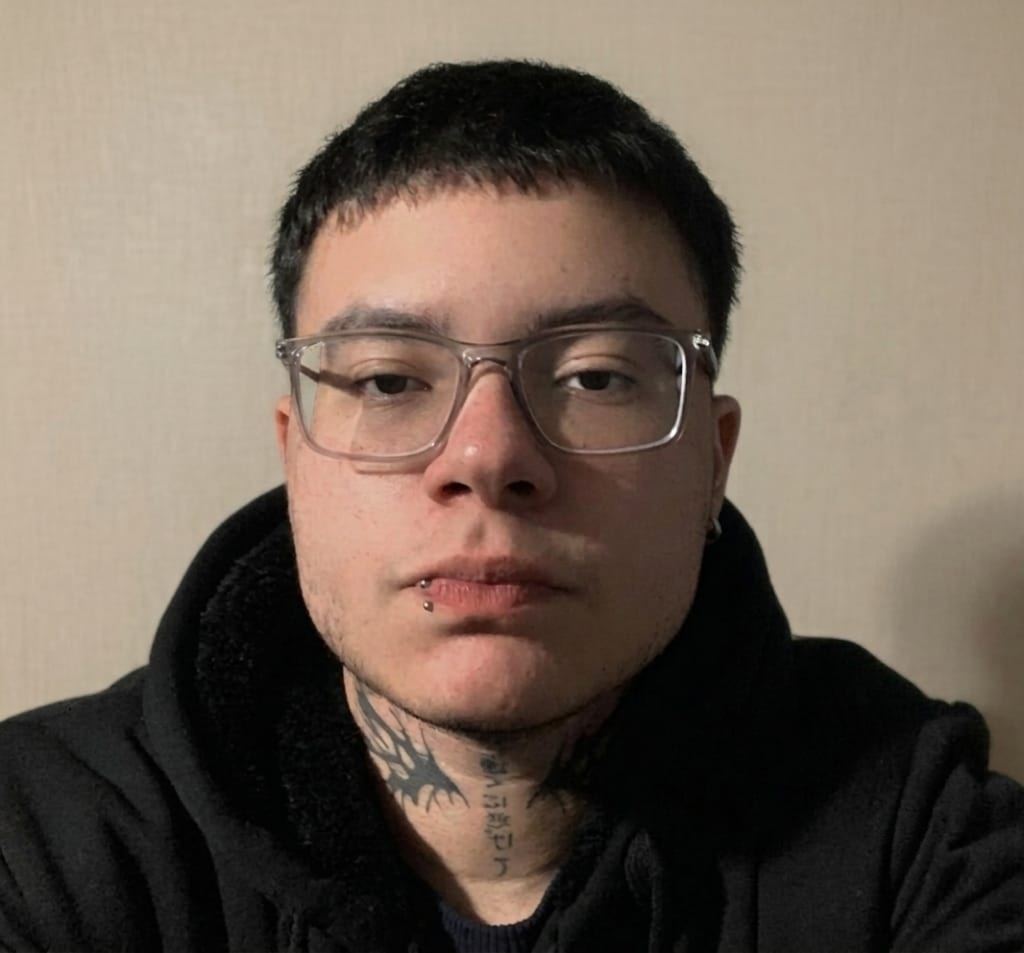
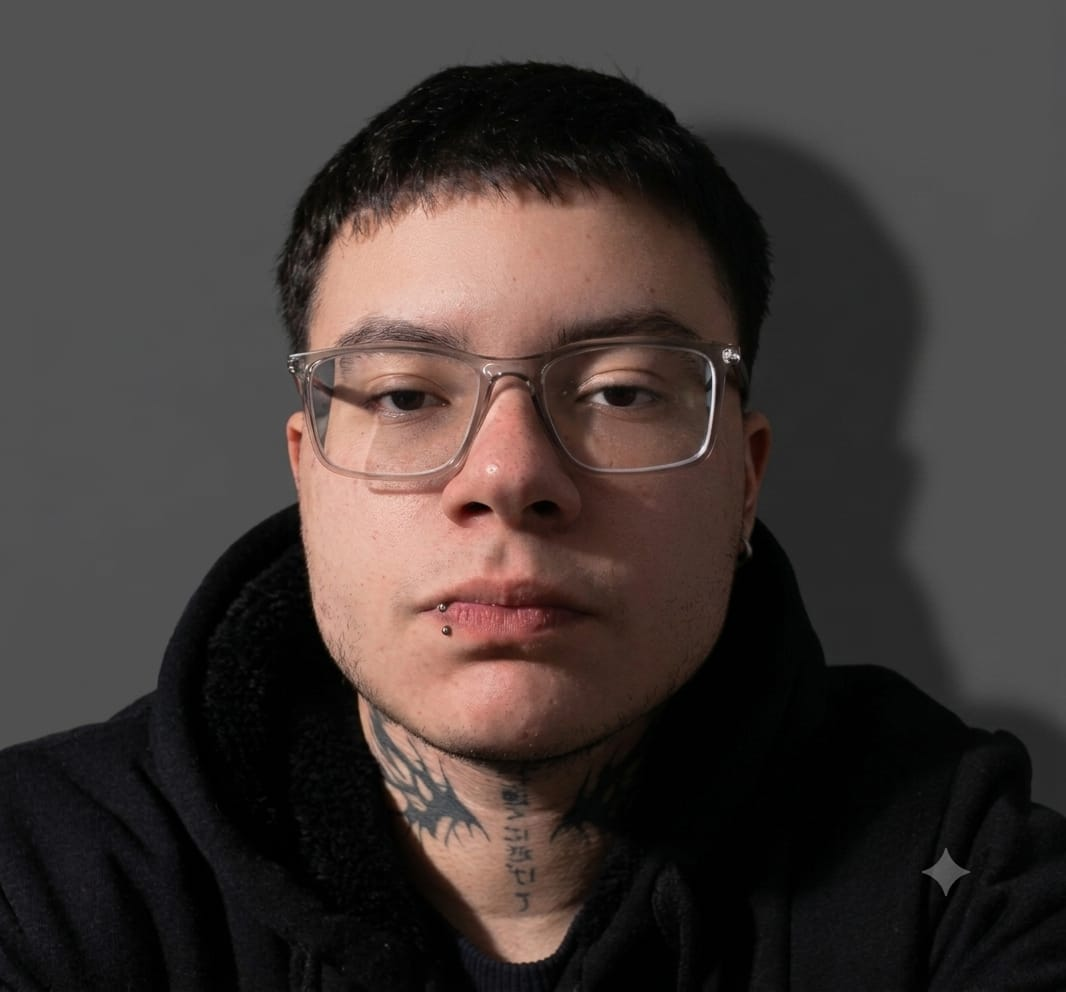
V5-mine

diff --git a/index.html b/index.html
@@ -31,6 +31,8 @@
                     coisas funcionam por dentro.</p>
             </div>
 
+            </div>
+
             <div class="redess">
                 <a href="https://github.com/sebstt7" target="_blank" class="redes-active">
                     <svg class="icone-redes" xmlns="http://www.w3.org/2000/svg" width="24" height="24"
@@ -88,7 +90,6 @@
         <section class="perfil-container">
             <img src="img/perfil.jpeg" alt="foto de perfil" class="foto-perfil">
         </section>
-
 
 
         <section class="skills-container">
@@ -178,6 +179,7 @@
                 </div>
             </div>
             </div>
+            <img src="img/sem fundo.gif" alt="mine" class="minecraft-skills">
         </section>
 
     </main>
@@ -197,7 +199,7 @@
                     </div>
                     <div class="card-corpo">
                         <h3>Dashboard de Controle</h3>
-                        <p>Pipeline financeiro com triggers em PL/pgSQL, views com window functions e dashboard no Power
+                        <p>Pipeline financeiro com triggers em pgSQL, views com window functions e dashboard no Power
                             BI.</p>
                     
                     </div>

diff --git a/index.css b/index.css
@@ -487,3 +487,20 @@ main {
 .bnt-enviar:active {
   transform: translateY(0) scale(0.97);
 }
+
+.minecraft-skills {
+
+  width: 140px;
+  height: 140px;
+  flex-shrink: 0;
+  margin-top: 35px;
+  margin-left: 90px;
+  cursor: pointer;
+  transition: filter 0.3s ease, transform 0.2s ease;
+}
+
+.minecraft-skills:active {
+
+  filter: drop-shadow(0 0 15px #00f0ff) drop-shadow(0 0 20px #00a2ff);
+  transform: scale(1.1);
+}
